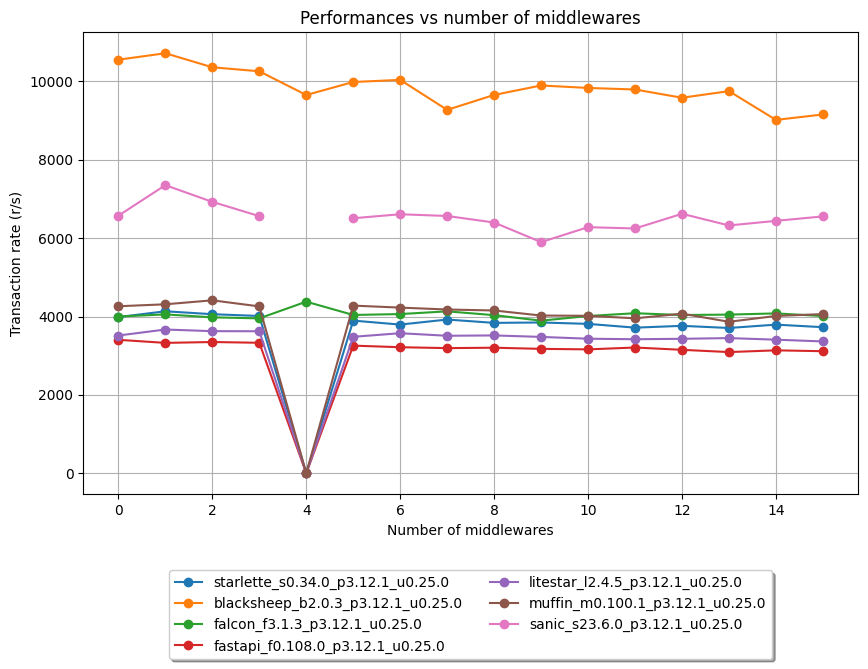
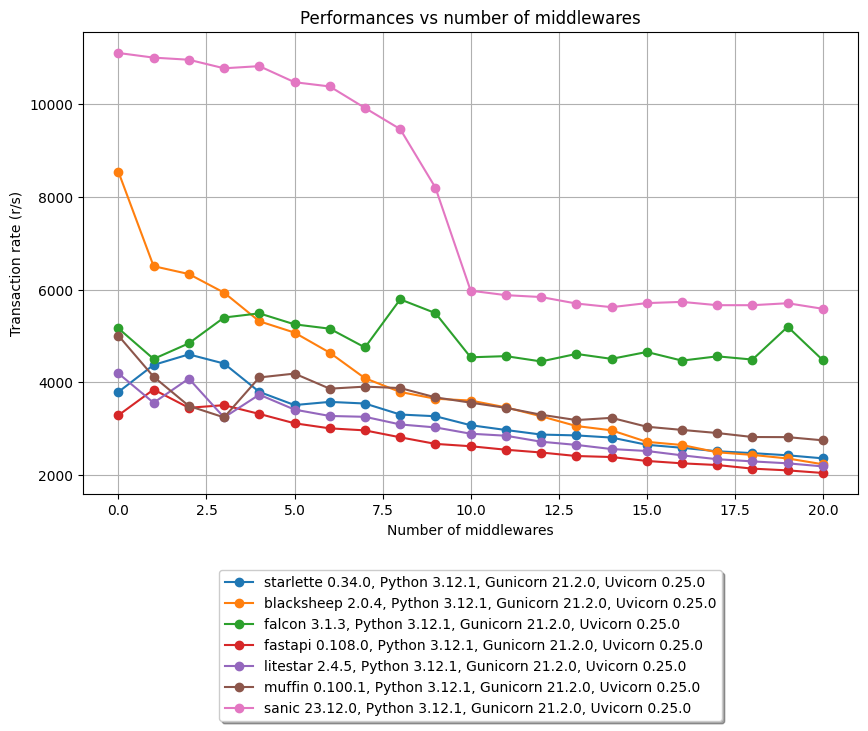
:memo: update results

diff --git a/README.md b/README.md
@@ -1,9 +1,21 @@
-# Performance test suite for ASGI frameworks
+# Performance test suite for ASGI frameworks & middlewares
 
-This project is a test suite trying to detect performance issues when using middlewares with 
-ASGI frameworks.
+This project is a test suite showing how performances are affected by the presence of middlewares in popular ASGI 
+frameworks.
 
-The middleware is doing almost nothing. We just test the effect on performances of having middlewares.
+- The middleware is altering the JSON response body by incrementing a value 
+- The middleware implementations try to be as efficient as possible (for instance, implementing a pure middleware 
+  in Starlette instead of using BaseHTTPMiddleware)
+- The ASGI server stack is a Docker container bound to a single CPU running Gunicorn with 1 Uvicorn worker 
+- The performances are measured from [Bombardier](https://github.com/codesenberg/bombardier) running in its own Docker
+  container
+
+While the original intent is to show how performances degrades when using many middlewares, this project can easily be
+configured to compare performances when using different versions of : 
+- Python
+- Gunicorn
+- Uvicorn
+- ASGI frameworks
 
 ## Results
 
@@ -39,9 +51,7 @@ See the top section of [tests/config.py](tests/config.py)
 
 If you want to modify this test suite, here are a few pointers.
 
-- A Docker image is built for each configured versions of the ASGI framework, Python and Uvicorn.
-  See Dockerfiles in [docker/*](docker/)
-- The server implementations are minimal. See [docker/*_server.py](docker/)
+- The whole project is based on [Pytest](https://docs.pytest.org/)
 - Performance tests are performed using [Bombardier](https://github.com/codesenberg/bombardier) which is run in its own 
   container. See [docker/bombardier/Dockerfile](docker/bombardier/Dockerfile)
 - Pytest is used to create and run a docker container with the parametrized ASGI server configured with a certain number of middlewares.
